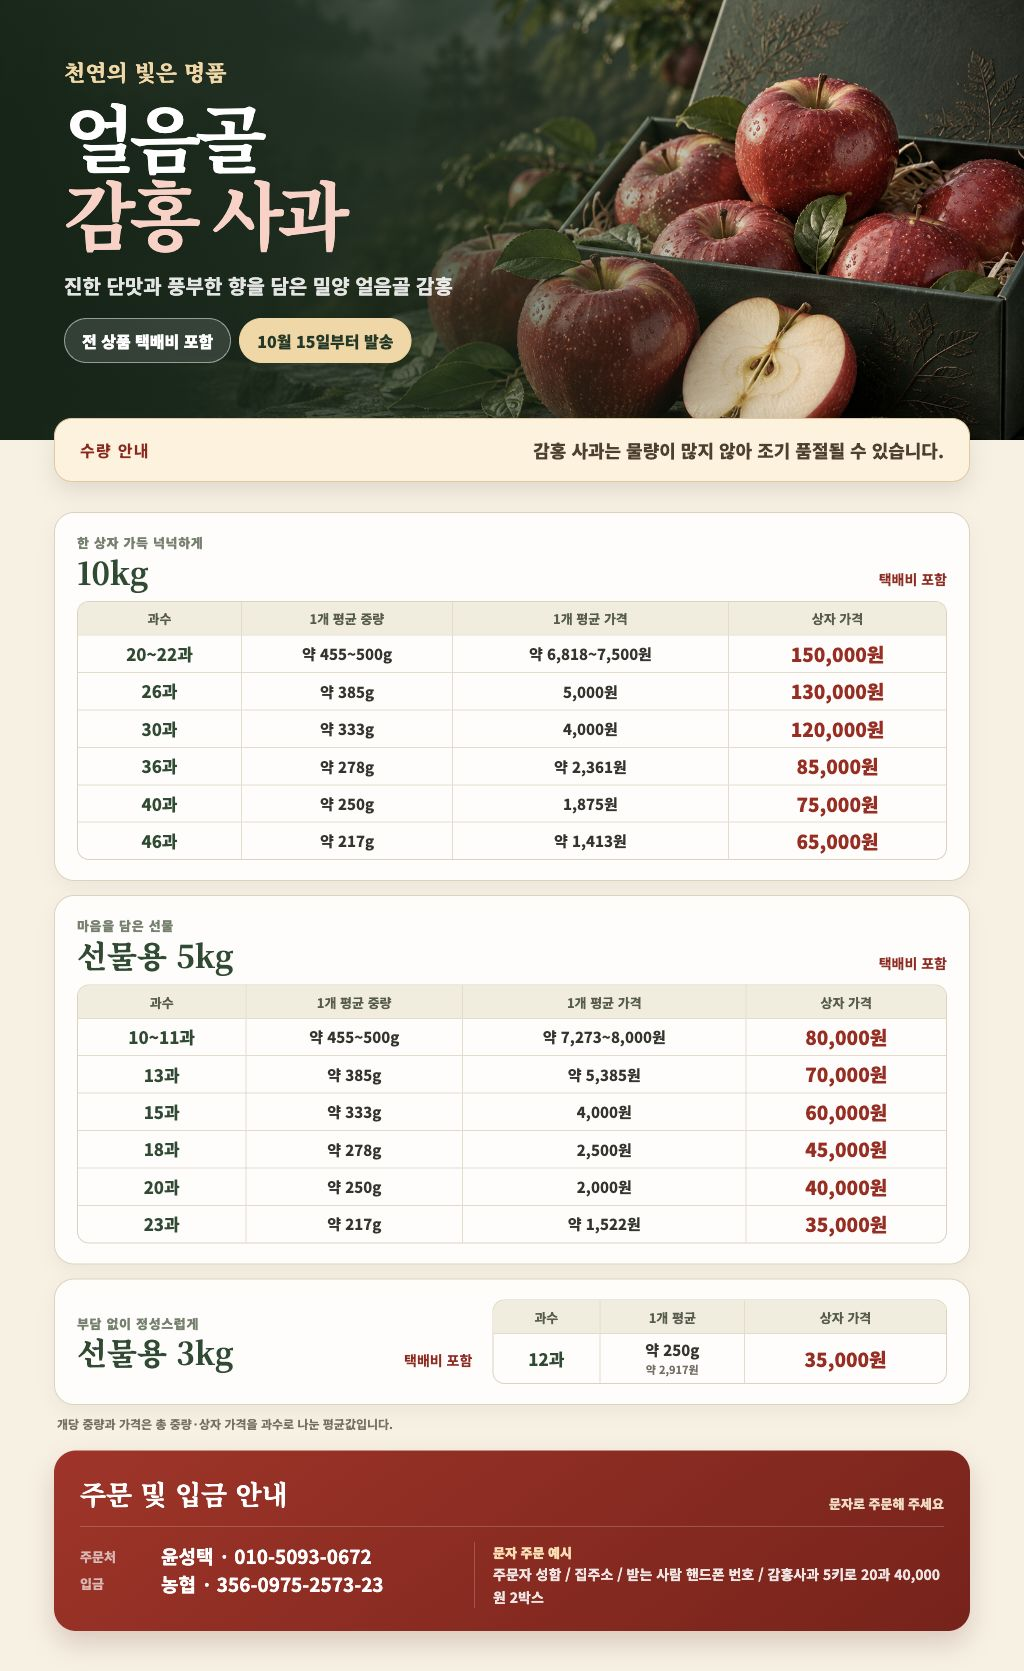
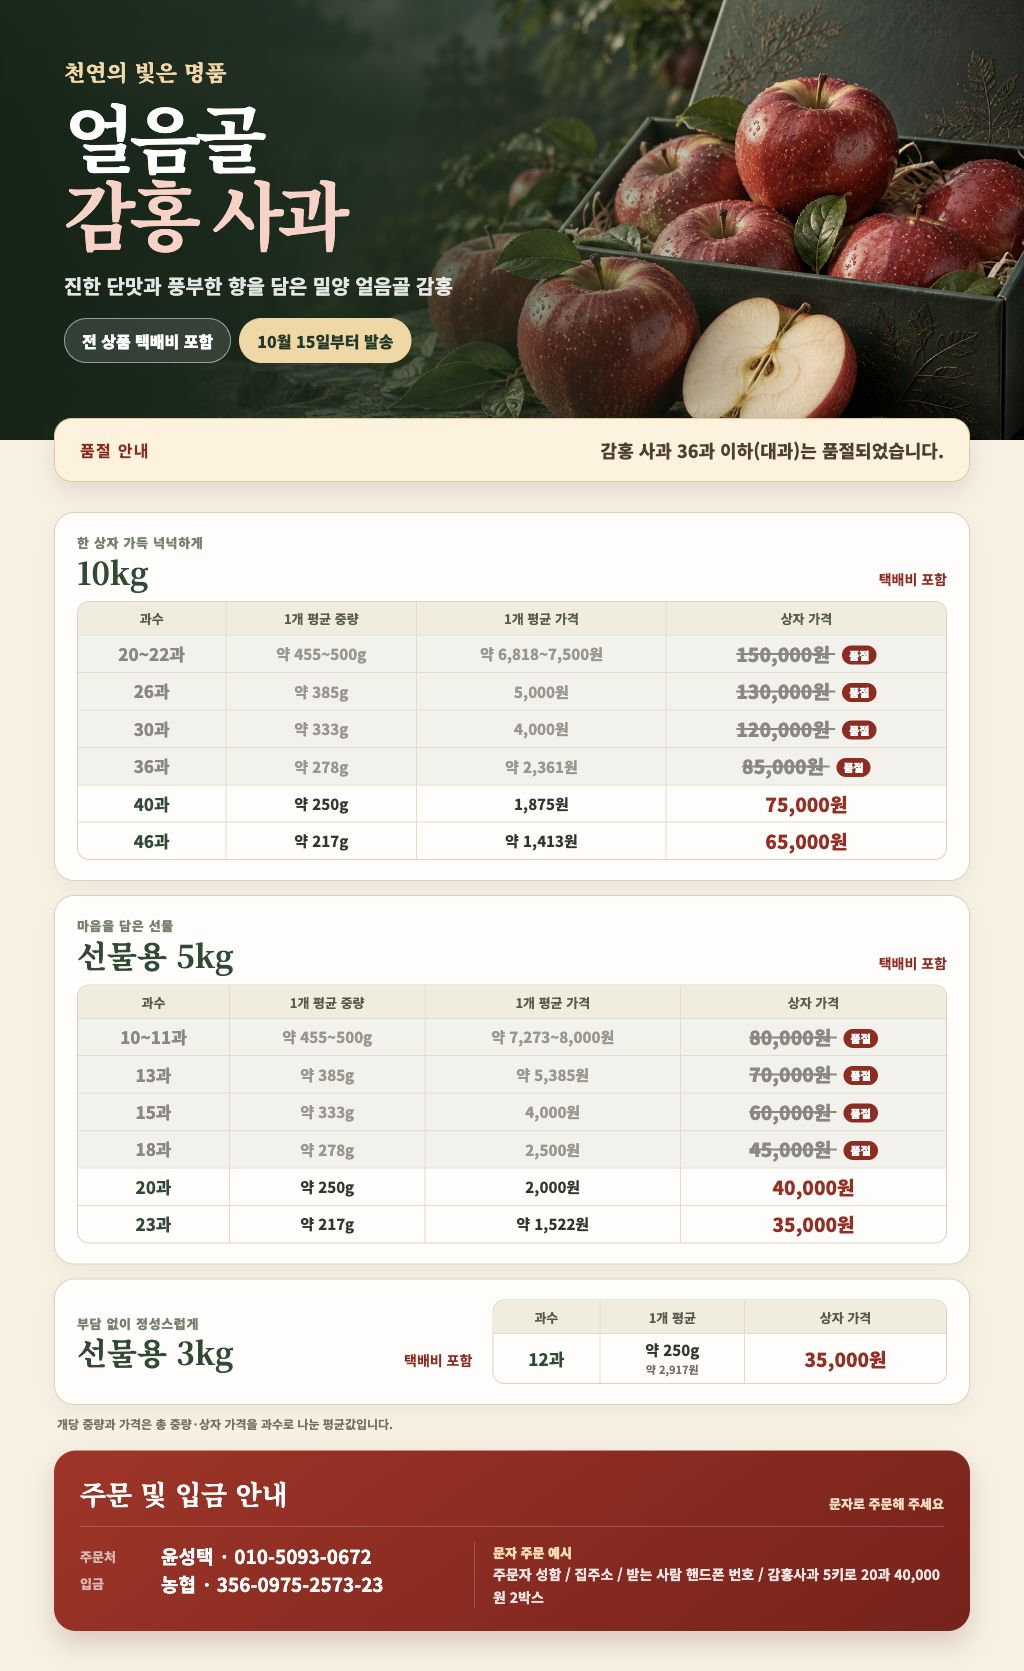
Mark large Gamhong apples sold out

diff --git a/poster-gamhong.html b/poster-gamhong.html
@@ -39,6 +39,10 @@
       td:first-child { color: #294b31; font-size: 17px; }
       td:last-child { color: #a3211b; font-size: 19px; font-weight: 900; }
       td small { color: #766f64; font-size: 11px; font-weight: 700; }
+      .sold-out td { color: #9b978e; background: #f3f1ec; }
+      .sold-out td:first-child, .sold-out td:last-child { color: #8c8880; }
+      .sold-out td:last-child { text-decoration: line-through; text-decoration-thickness: 2px; }
+      .soldout-badge { display: inline-block; margin-left: 7px; padding: 3px 7px; border-radius: 999px; color: #fff; background: #9a201a; font-size: 11px; font-style: normal; font-weight: 900; text-decoration: none; vertical-align: 2px; }
       .compact { display: grid; grid-template-columns: 1fr 1.15fr; gap: 20px; align-items: center; }
       .compact .group-head { margin: 0; }
       .note { margin: 10px 3px 0; color: #777064; font-size: 12px; font-weight: 700; }
@@ -67,7 +71,7 @@
         </div>
       </section>
 
-      <div class="stock"><b>수량 안내</b><span>감홍 사과는 물량이 많지 않아 조기 품절될 수 있습니다.</span></div>
+      <div class="stock"><b>품절 안내</b><span>감홍 사과 36과 이하(대과)는 품절되었습니다.</span></div>
 
       <section class="prices">
         <div class="group">
@@ -75,10 +79,10 @@
           <table>
             <thead><tr><th>과수</th><th>1개 평균 중량</th><th>1개 평균 가격</th><th>상자 가격</th></tr></thead>
             <tbody>
-              <tr><td>20~22과</td><td>약 455~500g</td><td>약 6,818~7,500원</td><td>150,000원</td></tr>
-              <tr><td>26과</td><td>약 385g</td><td>5,000원</td><td>130,000원</td></tr>
-              <tr><td>30과</td><td>약 333g</td><td>4,000원</td><td>120,000원</td></tr>
-              <tr><td>36과</td><td>약 278g</td><td>약 2,361원</td><td>85,000원</td></tr>
+              <tr class="sold-out"><td>20~22과</td><td>약 455~500g</td><td>약 6,818~7,500원</td><td>150,000원 <em class="soldout-badge">품절</em></td></tr>
+              <tr class="sold-out"><td>26과</td><td>약 385g</td><td>5,000원</td><td>130,000원 <em class="soldout-badge">품절</em></td></tr>
+              <tr class="sold-out"><td>30과</td><td>약 333g</td><td>4,000원</td><td>120,000원 <em class="soldout-badge">품절</em></td></tr>
+              <tr class="sold-out"><td>36과</td><td>약 278g</td><td>약 2,361원</td><td>85,000원 <em class="soldout-badge">품절</em></td></tr>
               <tr><td>40과</td><td>약 250g</td><td>1,875원</td><td>75,000원</td></tr>
               <tr><td>46과</td><td>약 217g</td><td>약 1,413원</td><td>65,000원</td></tr>
             </tbody>
@@ -90,10 +94,10 @@
           <table>
             <thead><tr><th>과수</th><th>1개 평균 중량</th><th>1개 평균 가격</th><th>상자 가격</th></tr></thead>
             <tbody>
-              <tr><td>10~11과</td><td>약 455~500g</td><td>약 7,273~8,000원</td><td>80,000원</td></tr>
-              <tr><td>13과</td><td>약 385g</td><td>약 5,385원</td><td>70,000원</td></tr>
-              <tr><td>15과</td><td>약 333g</td><td>4,000원</td><td>60,000원</td></tr>
-              <tr><td>18과</td><td>약 278g</td><td>2,500원</td><td>45,000원</td></tr>
+              <tr class="sold-out"><td>10~11과</td><td>약 455~500g</td><td>약 7,273~8,000원</td><td>80,000원 <em class="soldout-badge">품절</em></td></tr>
+              <tr class="sold-out"><td>13과</td><td>약 385g</td><td>약 5,385원</td><td>70,000원 <em class="soldout-badge">품절</em></td></tr>
+              <tr class="sold-out"><td>15과</td><td>약 333g</td><td>4,000원</td><td>60,000원 <em class="soldout-badge">품절</em></td></tr>
+              <tr class="sold-out"><td>18과</td><td>약 278g</td><td>2,500원</td><td>45,000원 <em class="soldout-badge">품절</em></td></tr>
               <tr><td>20과</td><td>약 250g</td><td>2,000원</td><td>40,000원</td></tr>
               <tr><td>23과</td><td>약 217g</td><td>약 1,522원</td><td>35,000원</td></tr>
             </tbody>

diff --git a/index.html b/index.html
@@ -6,13 +6,13 @@
     <meta name="theme-color" content="#31563a" />
     <meta
       name="description"
-      content="밀양 얼음골 감홍 사과 가격표입니다. 10kg, 선물용 5kg·3kg 가격과 주문 정보를 확인하세요. 택배는 10월 15일부터 발송합니다."
+      content="밀양 얼음골 감홍 사과 가격표입니다. 36과 이하 대과는 품절되었으며 택배는 10월 15일부터 발송합니다."
     />
     <meta property="og:type" content="website" />
     <meta property="og:title" content="얼음골 사과 · 감홍 가격표" />
-    <meta property="og:description" content="10kg · 선물용 5kg·3kg / 택배비 포함 / 10월 15일부터 발송" />
-    <meta property="og:url" content="https://dev-wonny.github.io/eoreumgol-apple/?v=20261009-gamhong-1015" />
-    <meta property="og:image" content="https://dev-wonny.github.io/eoreumgol-apple/poster-gamhong.png?v=20261009-1015" />
+    <meta property="og:description" content="36과 이하 대과 품절 / 택배비 포함 / 10월 15일부터 발송" />
+    <meta property="og:url" content="https://dev-wonny.github.io/eoreumgol-apple/?v=20261010-soldout36" />
+    <meta property="og:image" content="https://dev-wonny.github.io/eoreumgol-apple/poster-gamhong.png?v=20261010-soldout36" />
     <meta property="og:image:width" content="1024" />
     <meta property="og:image:height" content="1671" />
     <title>얼음골 사과 · 감홍 가격표</title>
@@ -28,8 +28,8 @@
     <main>
       <section class="poster" aria-label="얼음골 감홍 사과 가격표">
         <img
-          src="./poster-gamhong.png?v=20261009-1015"
-          alt="얼음골 감홍 사과 가격표. 택배는 10월 15일부터 발송. 택배비 포함 10kg는 20~22과 15만원, 26과 13만원, 30과 12만원, 36과 8만5천원, 40과 7만5천원, 46과 6만5천원. 선물용 5kg는 10~11과 8만원, 13과 7만원, 15과 6만원, 18과 4만5천원, 20과 4만원, 23과 3만5천원. 선물용 3kg 12과는 3만5천원."
+          src="./poster-gamhong.png?v=20261010-soldout36"
+          alt="얼음골 감홍 사과 가격표. 36과 이하 대과는 품절. 택배는 10월 15일부터 발송. 판매 가능한 상품은 10kg 40과 7만5천원과 46과 6만5천원, 선물용 5kg 20과 4만원과 23과 3만5천원, 선물용 3kg 12과 3만5천원."
         />
       </section>
       <section class="order-card" aria-labelledby="order-title">

diff --git a/script.js b/script.js
@@ -57,7 +57,7 @@ const shareButton = document.querySelector("#shareButton");
 
 async function copyShareLink() {
   const shareUrl = new URL(window.location.href);
-  shareUrl.searchParams.set("v", "20261009-gamhong-1015");
+  shareUrl.searchParams.set("v", "20261010-soldout36");
   const copied = await writeToClipboard(shareUrl.href);
   showToast(
     copied
